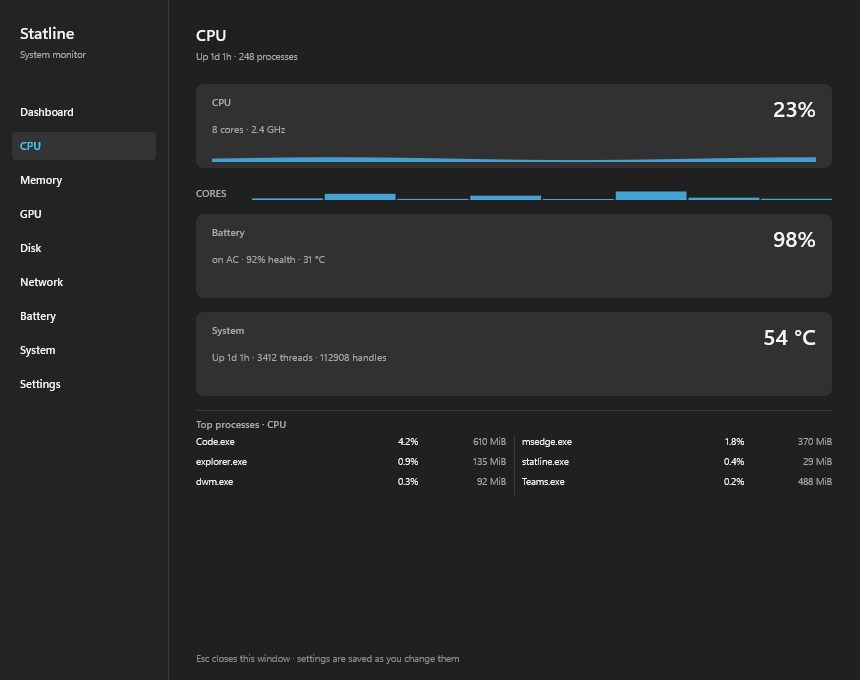
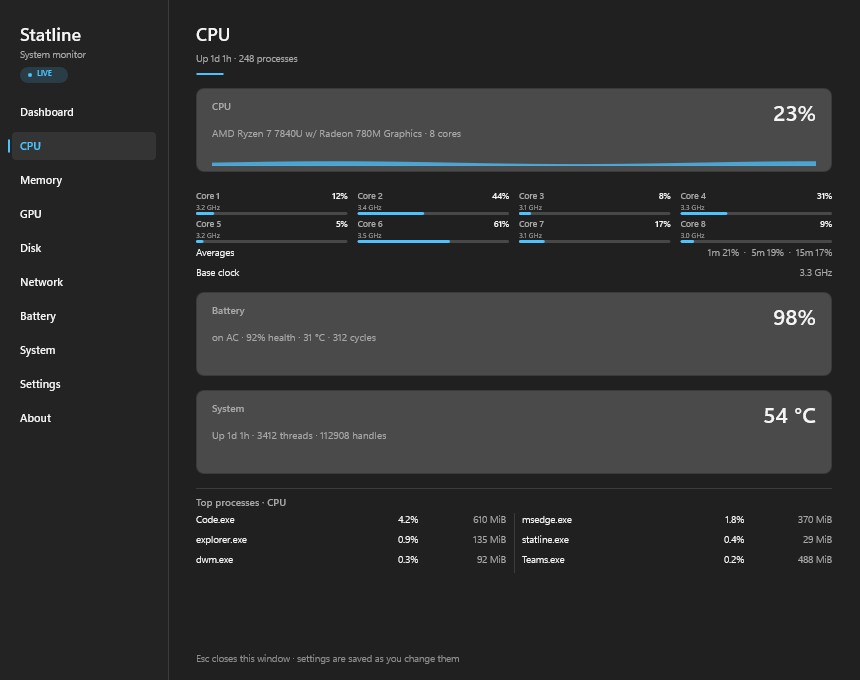
feat(companion): keyboard navigation and refreshed screenshots
- Ctrl+Tab / Ctrl+Shift+Tab cycle pages, Ctrl+1..9 jump, Ctrl+S opens settings.
- Tray primary click toggles the dashboard (the data folder stays in the menu).
- cycle_index is unit-tested; accent presets are asserted distinct.
- README/status screenshots regenerated from the current build.

diff --git a/crates/statline-app/src/strip_host.rs b/crates/statline-app/src/strip_host.rs
@@ -385,6 +385,46 @@ pub fn select_dashboard_item(index: usize) {
     log::info!("companion page: {}", page.label());
 }
 
+/// Next/previous nav index, wrapping around the item list.
+pub fn cycle_index(current: usize, count: usize, backwards: bool) -> usize {
+    if count == 0 {
+        return 0;
+    }
+    if backwards {
+        (current + count - 1) % count
+    } else {
+        (current + 1) % count
+    }
+}
+
+/// Keyboard handling for the companion window.
+///
+/// `Ctrl+Tab`/`Ctrl+Shift+Tab` cycle pages, `Ctrl+1..9` jump to a nav item, and
+/// `Ctrl+S` opens settings. `Esc` is handled by the window itself.
+pub fn handle_companion_key(key: u32, ctrl: bool, current: usize) {
+    const VK_TAB: u32 = 0x09;
+    const VK_S: u32 = 0x53;
+    const VK_1: u32 = 0x31;
+    const VK_9: u32 = 0x39;
+
+    if !ctrl {
+        return;
+    }
+    if key == VK_S {
+        crate::settings_host::toggle();
+        return;
+    }
+    if key == VK_TAB {
+        let shift = unsafe { windows::Win32::UI::Input::KeyboardAndMouse::GetKeyState(0x10) < 0 };
+        let count = statline_ui::dashboard::NAV_ITEMS.len();
+        select_dashboard_item(cycle_index(current, count, shift));
+        return;
+    }
+    if (VK_1..=VK_9).contains(&key) {
+        select_dashboard_item((key - VK_1) as usize);
+    }
+}
+
 /// Show or hide the strip on user request.
 pub fn toggle_strip() -> Option<bool> {
     let host = host()?;
@@ -624,4 +664,35 @@ pub fn accent_color(accent: Accent) -> Color {
 /// Palette for a theme and accent choice.
 pub fn palette(dark: bool, accent: Accent) -> Palette {
     Palette::for_theme(dark, accent_color(accent))
+}
+
+#[cfg(test)]
+mod tests {
+    use super::*;
+
+    #[test]
+    fn cycling_wraps_in_both_directions() {
+        assert_eq!(cycle_index(0, 10, false), 1);
+        assert_eq!(cycle_index(9, 10, false), 0);
+        assert_eq!(cycle_index(0, 10, true), 9);
+        assert_eq!(cycle_index(5, 10, true), 4);
+        assert_eq!(cycle_index(3, 0, false), 0);
+    }
+
+    #[test]
+    fn accent_presets_are_distinct() {
+        let colors = [
+            accent_color(Accent::Blue),
+            accent_color(Accent::Green),
+            accent_color(Accent::Purple),
+            accent_color(Accent::Orange),
+            accent_color(Accent::Teal),
+            accent_color(Accent::Pink),
+        ];
+        for (index, color) in colors.iter().enumerate() {
+            for other in colors.iter().skip(index + 1) {
+                assert_ne!(color, other, "accent presets must differ");
+            }
+        }
+    }
 }

diff --git a/crates/statline-app/src/dashboard_host.rs b/crates/statline-app/src/dashboard_host.rs
@@ -10,7 +10,7 @@ use statline_win::{HWND, LPARAM, LRESULT, WPARAM, paths, window};
 use windows::Win32::Foundation::RECT;
 use windows::Win32::Graphics::Gdi::{BeginPaint, EndPaint, InvalidateRect, PAINTSTRUCT};
 use windows::Win32::UI::WindowsAndMessaging::{
-    DefWindowProcW, GetClientRect, GetWindowRect, IsIconic, WM_CLOSE, WM_EXITSIZEMOVE,
+    DefWindowProcW, GetClientRect, GetWindowRect, IsIconic, WM_CLOSE, WM_EXITSIZEMOVE, WM_KEYDOWN,
     WM_LBUTTONUP, WM_PAINT, WM_SIZE,
 };
 
@@ -66,6 +66,11 @@ impl Dashboard {
     /// Switch page; the caller repaints with the next refresh.
     pub fn set_page(&mut self, page: Page) {
         self.page = page;
+    }
+
+    /// Current page, for keyboard handling.
+    pub fn page(&self) -> Page {
+        self.page
     }
 
     /// Enable or disable the Mica frame; applies immediately when open.
@@ -242,6 +247,18 @@ unsafe extern "system" fn companion_proc(
                 if let Some(index) = dashboard::nav_at(x, y, scale) {
                     crate::strip_host::select_dashboard_item(index);
                 }
+            }
+            LRESULT(0)
+        }
+        WM_KEYDOWN => {
+            let key = wparam.0 as u32;
+            let pointer = COMPANION.load(std::sync::atomic::Ordering::Acquire);
+            if !pointer.is_null() {
+                // SAFETY: the pointer is a live companion owned by this thread.
+                let ctrl =
+                    unsafe { windows::Win32::UI::Input::KeyboardAndMouse::GetKeyState(0x11) < 0 };
+                let page = unsafe { (*pointer).page() };
+                crate::strip_host::handle_companion_key(key, ctrl, page.index());
             }
             LRESULT(0)
         }

diff --git a/crates/statline-app/src/main.rs b/crates/statline-app/src/main.rs
@@ -202,7 +202,12 @@ unsafe extern "system" fn wndproc(hwnd: HWND, msg: u32, wparam: WPARAM, lparam: 
 
     if msg == tray::WM_TRAY {
         match tray::TrayEvent::from_callback(lparam) {
-            Some(tray::TrayEvent::Activate) => open_data_dir(),
+            Some(tray::TrayEvent::Activate) => {
+                // Primary click opens the dashboard; the data folder moved to
+                // the context menu because clicking the icon should do the
+                // obvious thing.
+                strip_host::toggle_dashboard();
+            }
             Some(tray::TrayEvent::ContextMenu) => {
                 if let Err(err) = menus::show_tray_menu(hwnd, strip_host::menu_state()) {
                     error!("context menu failed: {err}");

diff --git a/crates/statline-ui/src/dashboard.rs b/crates/statline-ui/src/dashboard.rs
@@ -456,7 +456,7 @@ fn draw_footer(
 ) {
     let _ = text.draw(
         surface,
-        "Esc closes this window \u{00b7} settings are saved as you change them",
+        "Esc closes \u{00b7} Ctrl+Tab pages \u{00b7} Ctrl+1-9 jumps to a page",
         (x, height - 28.0 * scale, width, 14.0 * scale),
         footer_style(scale),
         palette.text_muted.scaled_alpha(0.8),

diff --git a/docs/STATUS.md b/docs/STATUS.md
@@ -38,10 +38,11 @@ detail sampling on
 - **Companion**: framed resizable window with a left nav (Dashboard, CPU, Memory, GPU,
   Disk, Network, Battery, System, Settings, About). Module pages show a labelled
   per-core grid (percentage and clock) plus 1/5/15-minute averages and processes;
-  memory cache and top memory apps; per-volume and per-adapter rows. Its position and
-  size are remembered in `window.json` and restored only when still on a monitor.
-  Optional Mica DWM backdrop on the framed windows. The shell has a LIVE chip, an accent
-  rule under page titles, outlined cards and an accent marker on the active nav item.
+  memory cache and top memory apps; per-volume and per-adapter rows. `Ctrl+Tab` cycles
+  pages, `Ctrl+1..9` jumps, `Ctrl+S` opens settings. Its position and size are
+  remembered in `window.json` and restored only when still on a monitor. Optional Mica
+  DWM backdrop on the framed windows. The shell has a LIVE chip, an accent rule under
+  page titles, outlined cards and an accent marker on the active nav item.
 - **Settings**: a framed window from the tray menu, the strip menu, or the companion nav,
   with theme, accent presets, sampler interval, byte units, Mica, strip placement,
   start-with-Windows and per-module strip visibility. Mica shows a GPU/battery caution.

diff --git a/docs/HANDOFF.md b/docs/HANDOFF.md
@@ -135,6 +135,9 @@ docs/                    INDEX.md, STATUS.md, adr/, spec/, ops/, status/
   multiplies the total. Rates use `format_rate_short` (three significant digits,
   promote before 1000) and the strip reserves `99.9 MiB/s` plus `100%` samples so the
   segment cannot resize as digits or units change.
+- **Companion keys**: `Ctrl+Tab`/`Ctrl+Shift+Tab` cycle nav items, `Ctrl+1..9` jump,
+  `Ctrl+S` opens settings, `Esc` closes. Handled in `companion_proc` → `handle_companion_key`;
+  `cycle_index` is unit-tested. The tray left-click toggles the dashboard.
 - **Companion look**: nav LIVE chip, accent rule under page titles, card outlines,
   active-item accent marker. Keep new spacing inside `draw_header`'s 88 dip return so
   pages do not drift.

diff --git a/CHANGELOG.md b/CHANGELOG.md
@@ -24,6 +24,9 @@ All notable changes to Statline are recorded here. The format follows
 
 ### Added
 
+- Companion keyboard navigation: `Ctrl+Tab`/`Ctrl+Shift+Tab` cycle pages,
+  `Ctrl+1`–`Ctrl+9` jump to a nav item, `Ctrl+S` opens settings. Clicking the tray icon
+  now toggles the dashboard instead of a folder.
 - A real application icon: multi-size ICO embedded in `statline.exe`, used by the
   tray and framed windows, with refreshed MSIX tiles. `scripts/make-icon.ps1` is the
   reproducible generator; the build embeds it when the Windows SDK `rc.exe` exists.

diff --git a/docs/status/M6-dashboard.md b/docs/status/M6-dashboard.md
@@ -23,7 +23,7 @@ The place to configure and to explore, in one window.
 - [ ] Appearance: density, labels, opacity
 - [ ] Behaviour: secondary monitors, fullscreen, safe mode
 - [x] About: version, privacy posture, folders, licence, sensor scope
-- [ ] Keyboard navigation + focus rings; Esc closes
+- [x] Keyboard navigation: Ctrl+Tab cycling, Ctrl+1..9, Ctrl+S, Esc
 - [ ] Live preview of strip changes while editing
 
 ## Exit criteria
